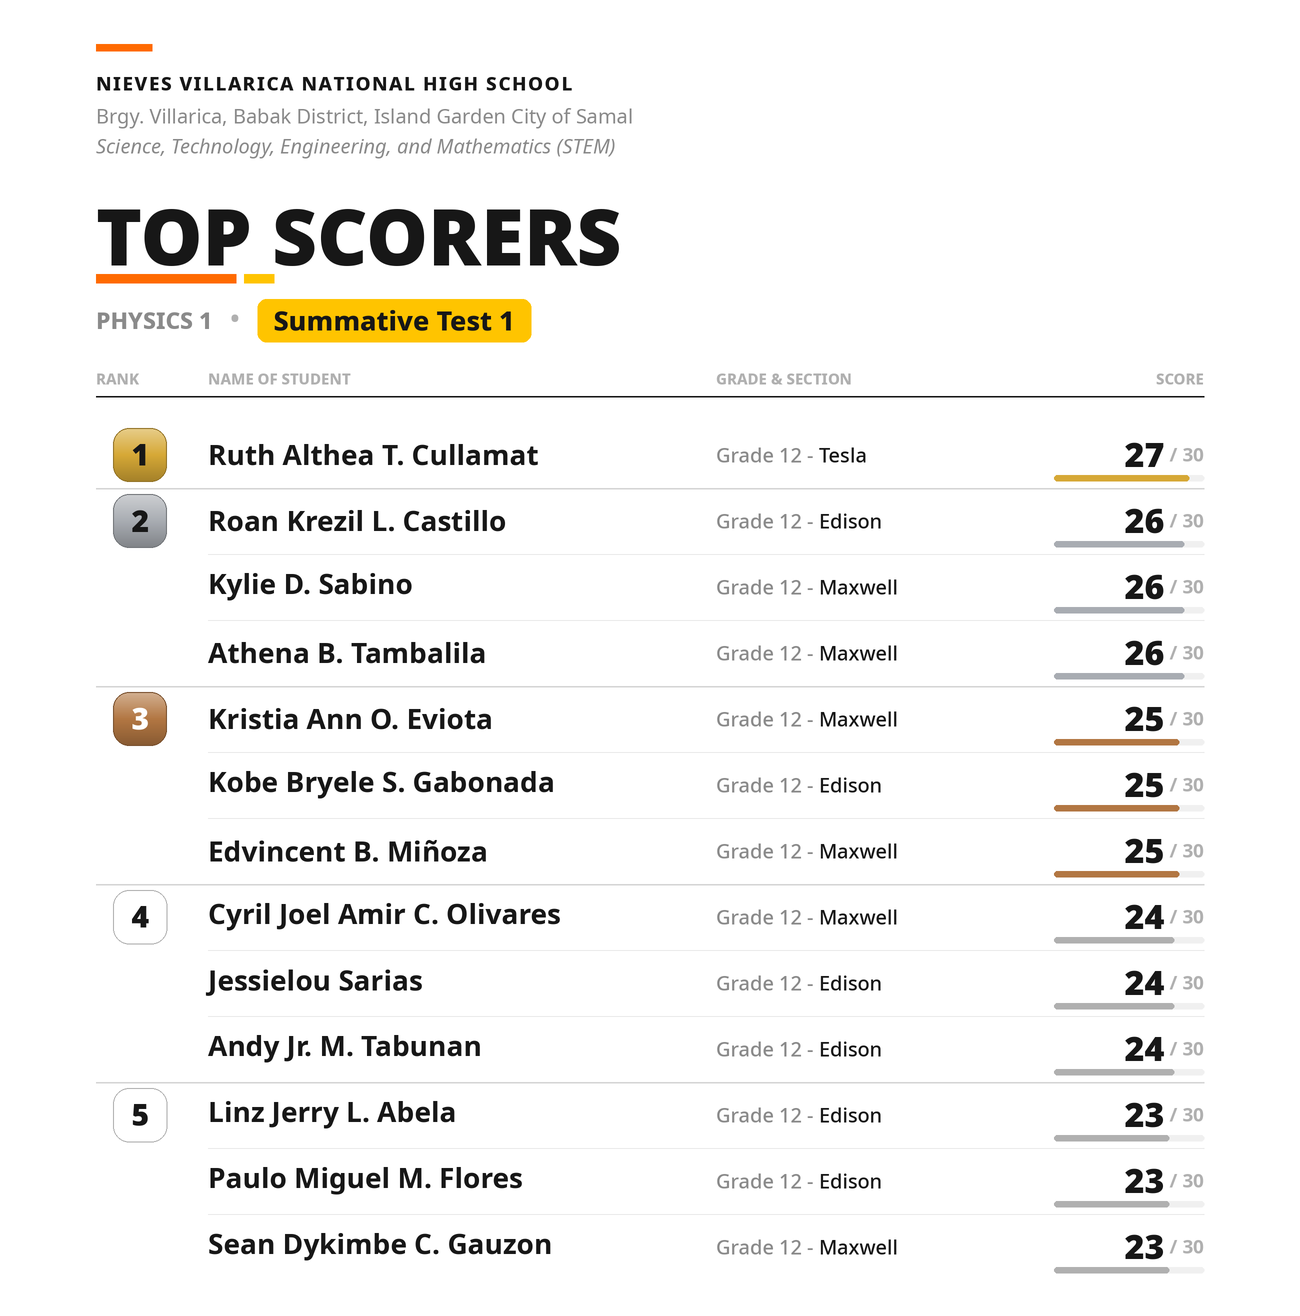
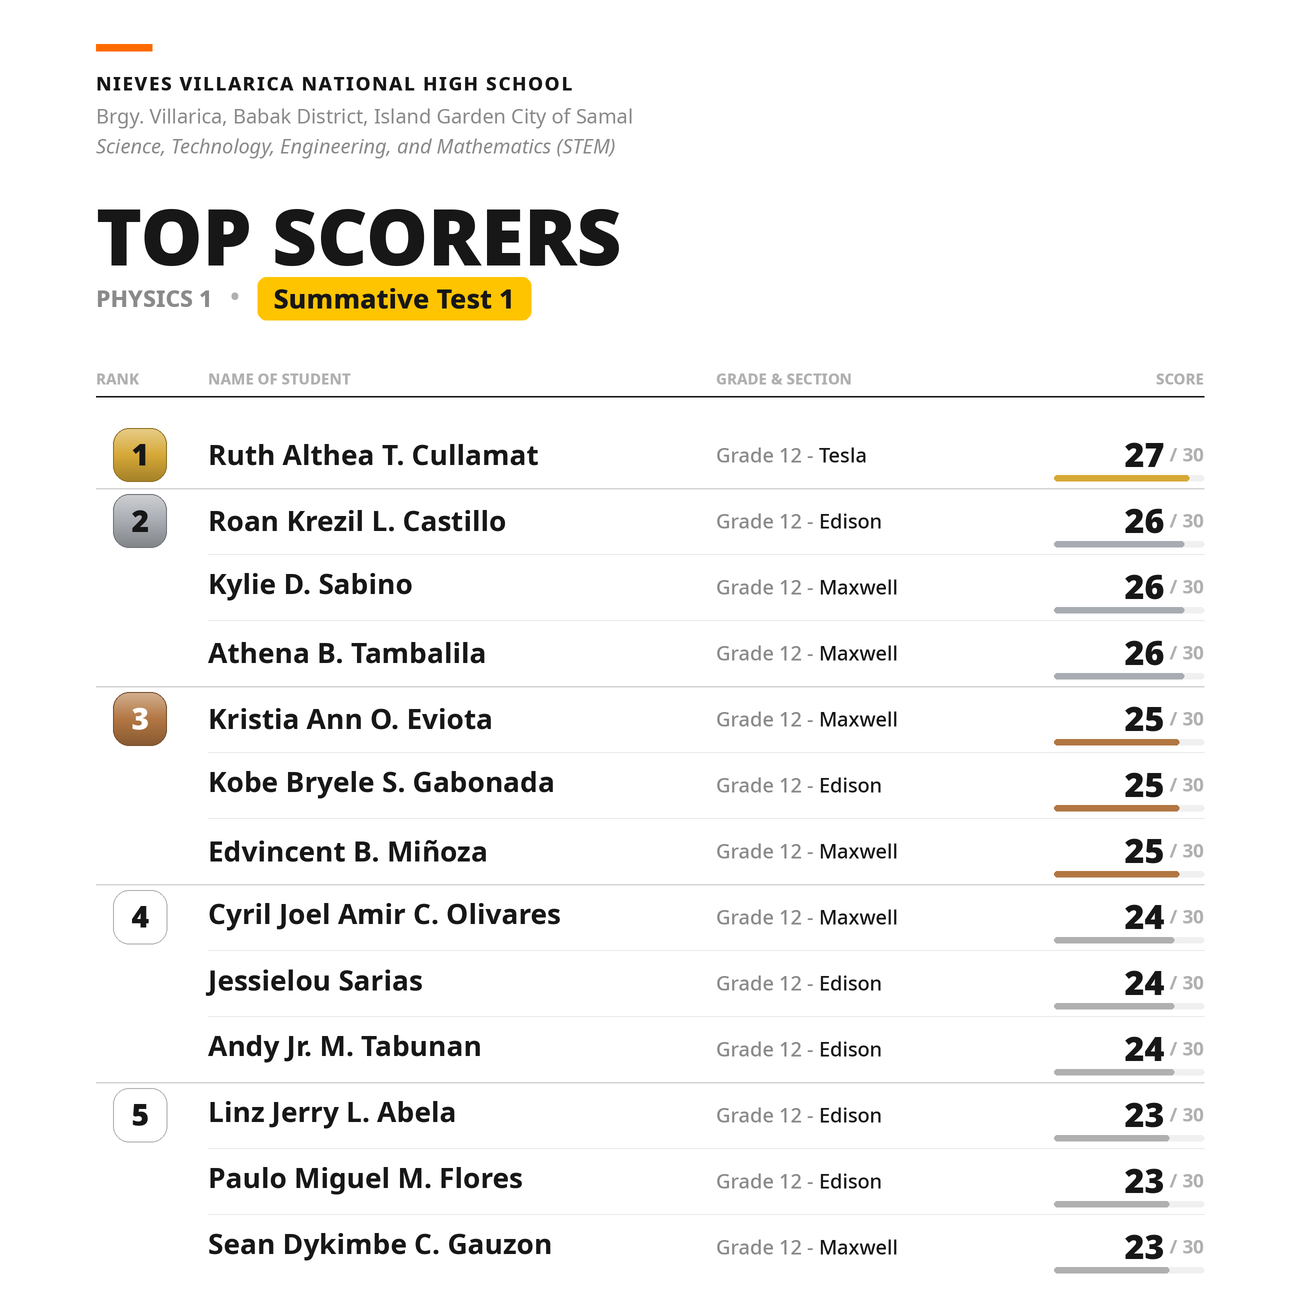
Remove orange/yellow accent line under TOP SCORERS title

Changed region(s): [[0.0615, 0.1869, 0.4308, 0.2804]]

diff --git a/make_topscorers.py b/make_topscorers.py
@@ -151,13 +151,10 @@ ty = s(182)
 d.text((x, ty), "TOP", font=f_title, fill=INK)
 top_w = d.textlength("TOP", font=f_title)
 d.text((x + top_w + s(20), ty), "SCORERS", font=f_title, fill=INK)
-# underline accent under whole title
-tl_bottom = ty + s(78) + s(14)
-d.rectangle([x, tl_bottom, x + s(140), tl_bottom + s(9)], fill=ORANGE)
-d.rectangle([x + s(148), tl_bottom, x + s(178), tl_bottom + s(9)], fill=YELLOW)
+tl_bottom = ty + s(78)
 
 # subtitle: PHYSICS 1  ·  [ Summative Test 1 ]  (test emphasized w/ highlight)
-sy = tl_bottom + s(30)
+sy = tl_bottom + s(22)
 d.text((x, sy), "PHYSICS 1", font=f_sub_b, fill=GRAY)
 pb = d.textbbox((0, 0), "PHYSICS 1", font=f_sub_b)
 line_mid = sy + (pb[1] + pb[3]) / 2.0            # vertical center of subtitle line
